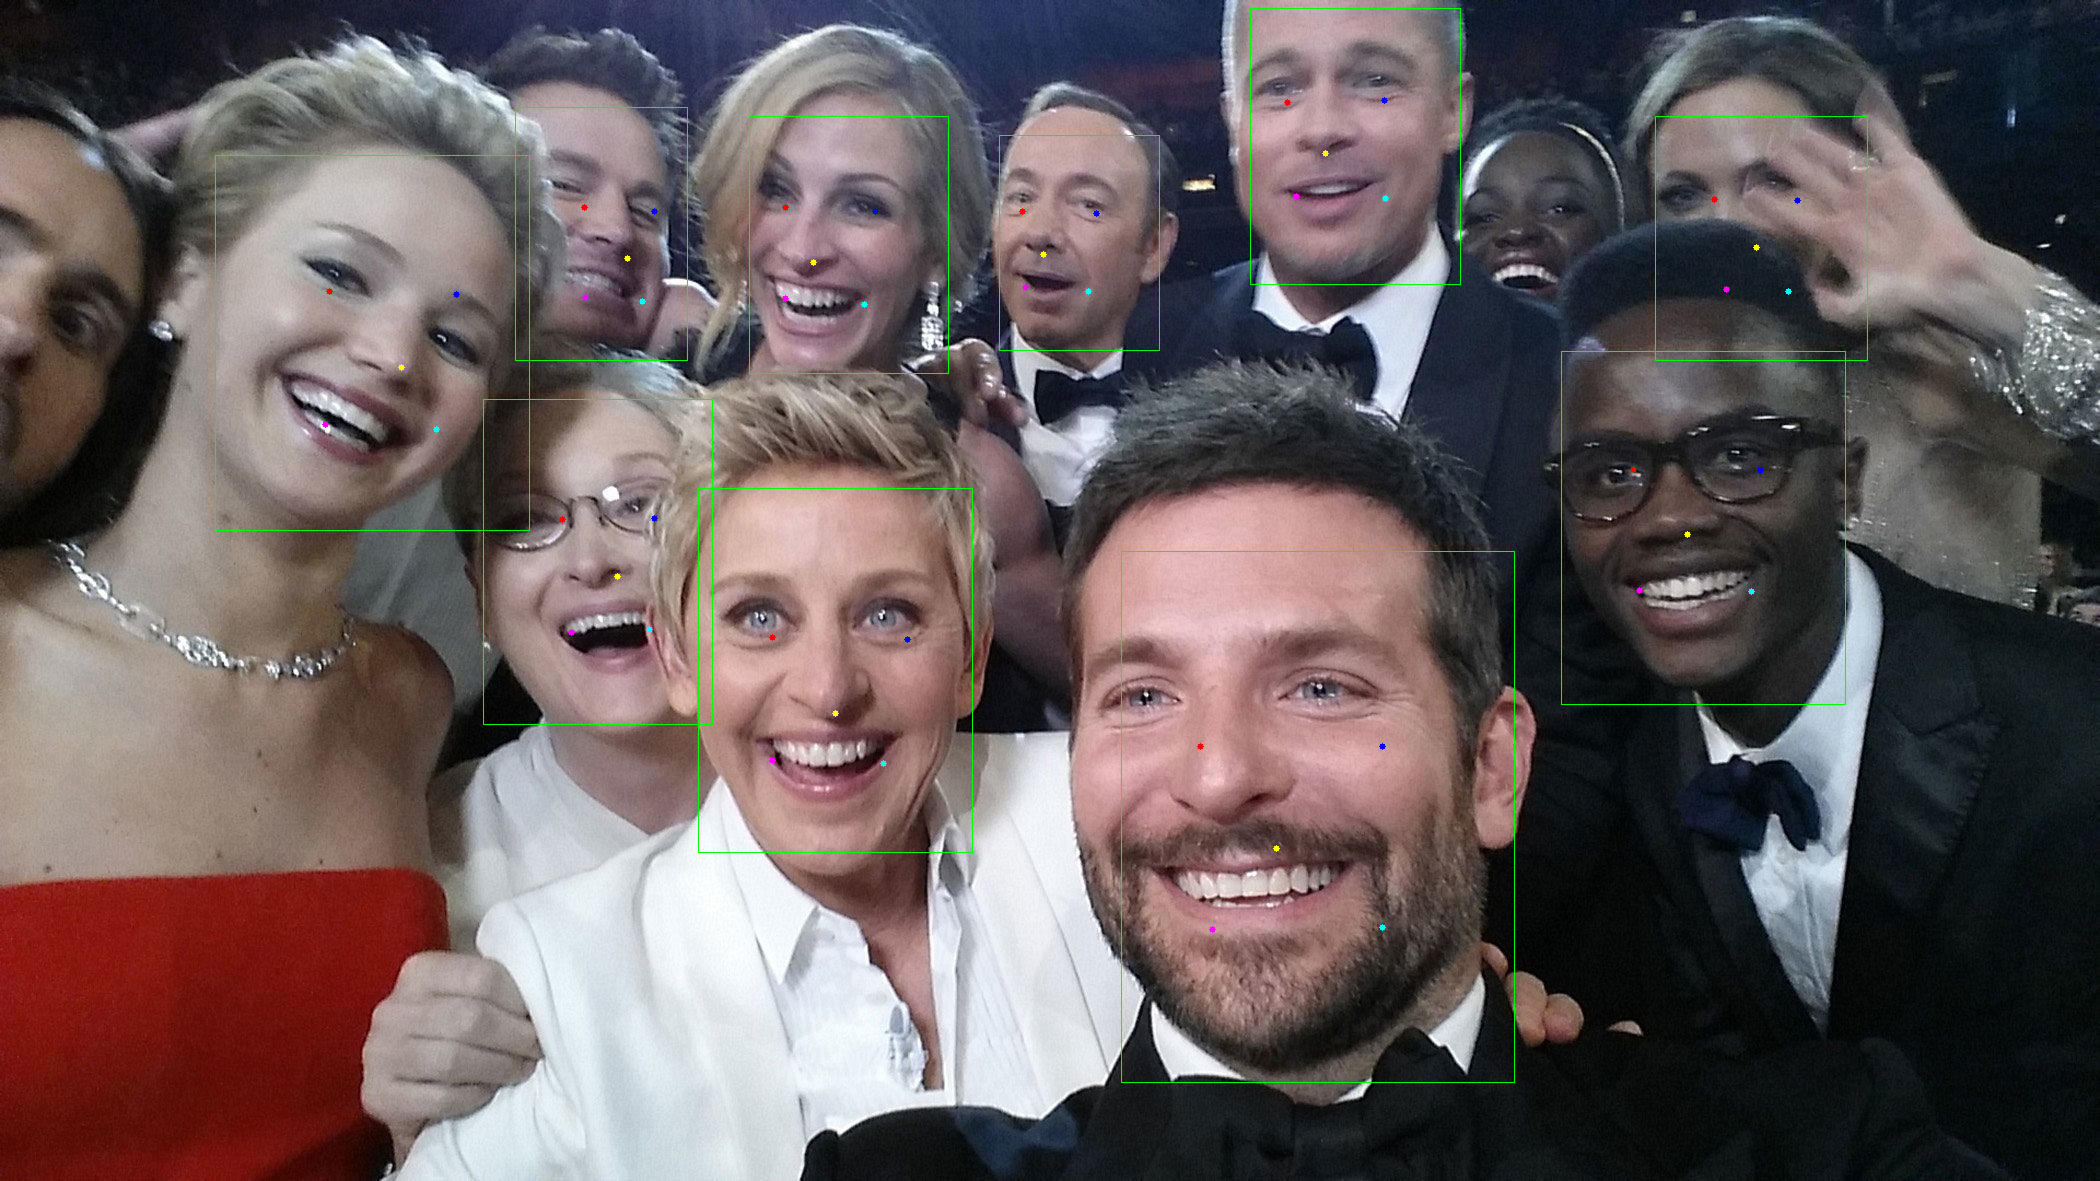
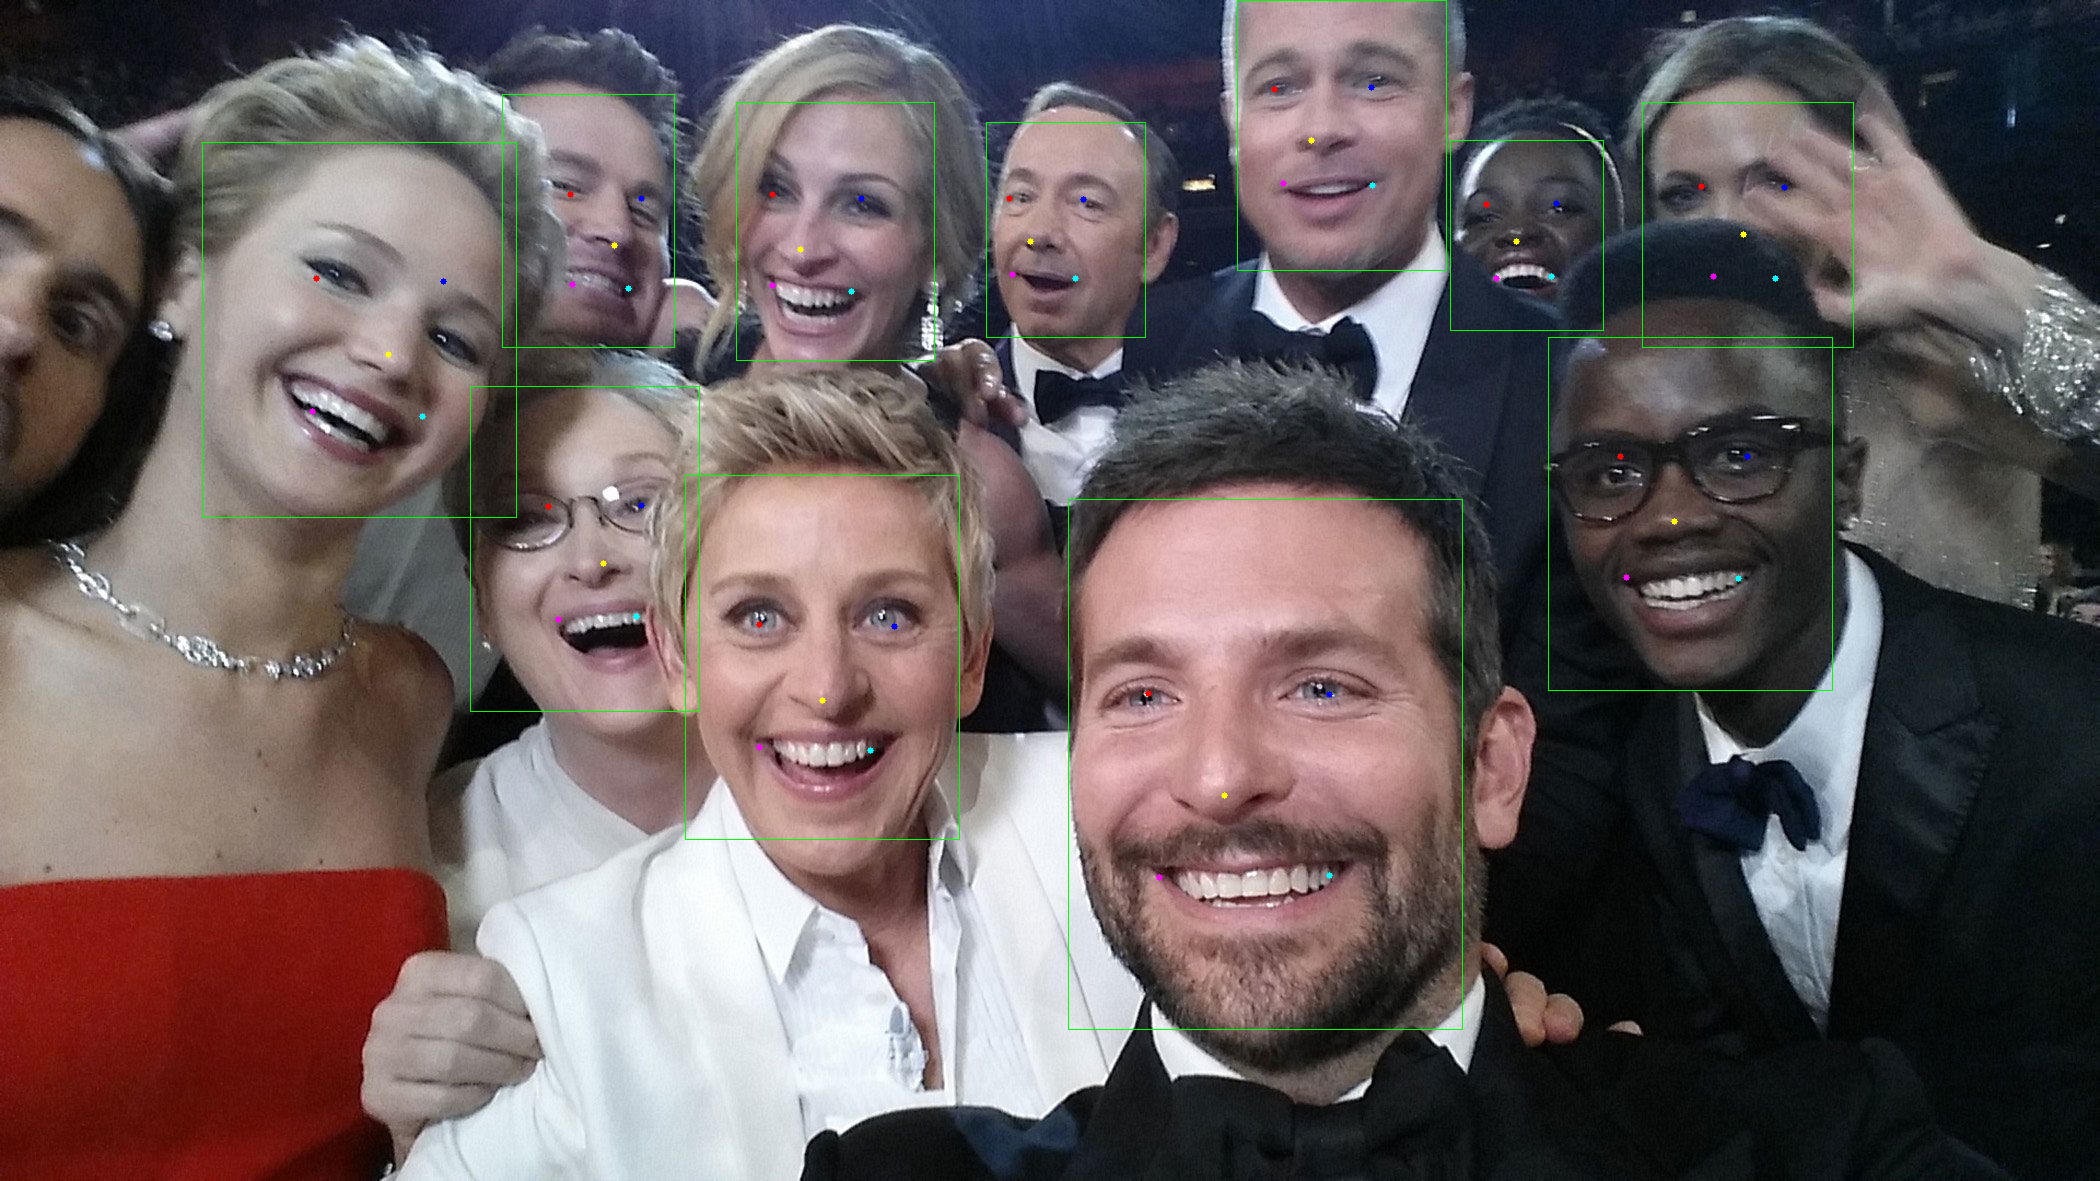
fix anchor

Changed region(s): [[0.7738, 0.2743, 0.8048, 0.3048], [0.3095, 0.4268, 0.3405, 0.4572]]

diff --git a/src/face_detection.rs b/src/face_detection.rs
@@ -131,6 +131,7 @@ fn iou_face(a: &FaceDetection, b: &FaceDetection) -> f32 {
 
 #[cfg(any(feature = "ort-backend", feature = "rknn-backend", feature = "tensorrt-backend"))]
 #[inline]
+#[allow(dead_code)]
 fn sigmoid(x: f32) -> f32 {
     1.0 / (1.0 + (-x).exp())
 }
@@ -171,19 +172,21 @@ pub fn decode_yunet_stride(
         let col = idx % feat_w;
         let row = idx / feat_w;
 
-        let anchor_cx = (col as f32 + 0.5) * s;
-        let anchor_cy = (row as f32 + 0.5) * s;
+        // Anchor at grid cell corner (matching OpenCV FaceDetectorYN decode)
+        let anchor_x = col as f32;
+        let anchor_y = row as f32;
 
-        let cls_score = sigmoid(cls[idx]);
-        let obj_score = sigmoid(obj[idx]).clamp(0.0, 1.0);
+        // Score: clamp to [0, 1] without sigmoid (OpenCV convention)
+        let cls_score = cls[idx].clamp(0.0, 1.0);
+        let obj_score = obj[idx].clamp(0.0, 1.0);
         let score = (cls_score * obj_score).sqrt();
 
         if score < conf_threshold {
             continue;
         }
 
-        let cx = anchor_cx + bbox[idx * 4] * s;
-        let cy = anchor_cy + bbox[idx * 4 + 1] * s;
+        let cx = (anchor_x + bbox[idx * 4]) * s;
+        let cy = (anchor_y + bbox[idx * 4 + 1]) * s;
         let w = bbox[idx * 4 + 2].exp() * s;
         let h = bbox[idx * 4 + 3].exp() * s;
 
@@ -193,8 +196,8 @@ pub fn decode_yunet_stride(
 
         let mut landmarks = [[0.0f32; 2]; 5];
         for k in 0..5 {
-            let lx = anchor_cx + kps[idx * 10 + 2 * k] * s;
-            let ly = anchor_cy + kps[idx * 10 + 2 * k + 1] * s;
+            let lx = (kps[idx * 10 + 2 * k] + anchor_x) * s;
+            let ly = (kps[idx * 10 + 2 * k + 1] + anchor_y) * s;
             let (ox, oy, _, _) = meta.inverse_transform(lx, ly, 0.0, 0.0);
             landmarks[k][0] = ox;
             landmarks[k][1] = oy;
